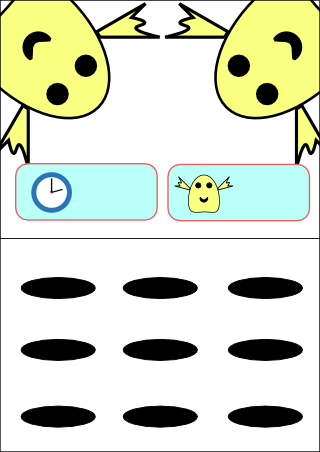
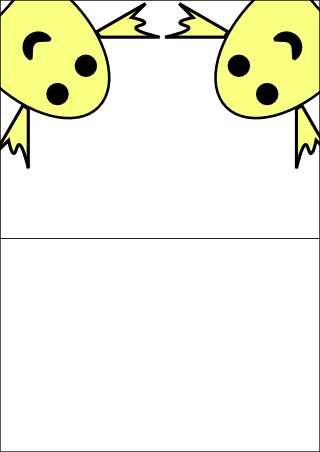
タイトル画面を作成

diff --git a/game_scene.js b/game_scene.js
@@ -4,10 +4,20 @@
  * @extends Scene
  */
 var GameScene = Class.create(Scene, {
+	/**
+	 * コンストラクタ
+	 * @memberof GameScene
+	 * @method
+	 */
 	initialize: function() {
 		Scene.call(this);
 	},
 	
+	/**
+	 * シーン開始時の処理
+	 * @method
+	 * @memberof GameScene
+	 */
 	onenter: function() {
 	}
 });
@@ -18,7 +28,38 @@ var GameScene = Class.create(Scene, {
  * @extends Group
  */
 var Timer = Class.create(Group, {
+	/**
+	 * コンストラクタ
+	 * @method
+	 * @memberof Timer
+	 */
+	initialize: function() {
+		var background = new Sprite();
+		background.image = game.assets['img/timer.png'];
+		background.width = background.image.width;
+		background.height = background.image.height;
+		background.x = 20;
+		background.y = 100;
+		this.addChild(background);
+	},
+
+	/**
+	 * タイマーを開始する
+	 * @method
+	 * @memberof Timer
+	 */
+	start: function() {
+		
+	},
 	
+	/**
+	 * タイマーを止める
+	 * @method
+	 * @memberof Timer
+	 */
+	stop: function() {
+	
+	}
 });
 
 /**

diff --git a/title_scene.js b/title_scene.js
@@ -7,6 +7,8 @@
 var TitleScene = Class.create(Scene, {
 	_startButton: null,
 	_rankingButton: null,
+	_message: null,
+	_title: null,
 	
 	/**
 	 * コンストラクタ
@@ -33,6 +35,22 @@ var TitleScene = Class.create(Scene, {
 		ranking.y = 240 + 30;
 		ranking.ontouchstart = this.ranking;
 		this._rankingButton = ranking;
+		
+		var message = new Sprite();
+		message.image = game.assets['img/down_arrow.png'];
+		message.width = message.image.width;
+		message.height = message.image.height;
+		message.x = 30;
+		message.y = 380;
+		this._message = message;
+		
+		var title = new Sprite();
+		title.image = game.assets['img/title.png'];
+		title.width = title.image.width;
+		title.height = title.image.height;
+		title.x = 10;
+		title.y = 130;
+		this._title = title;
 	},
 	
 	/**
@@ -43,6 +61,8 @@ var TitleScene = Class.create(Scene, {
 	onenter: function() {
 		this.addChild(this._startButton);
 		this.addChild(this._rankingButton);
+		this.addChild(this._message);
+		this.addChild(this._title);
 	},
 	
 	/**

diff --git a/game.js b/game.js
@@ -60,7 +60,10 @@ var Game = Class.create(Core, {
 			'img/background.png',
 			'img/mole.png',
 			'img/start_button.png',
-			'img/ranking_button.png'
+			'img/ranking_button.png',
+			'img/timer.png',
+			'img/down_arrow.png',
+			'img/title.png'
 		];
 		for(var i = 0; i < files.length; i++) {
 			this.preload(files[i]);
